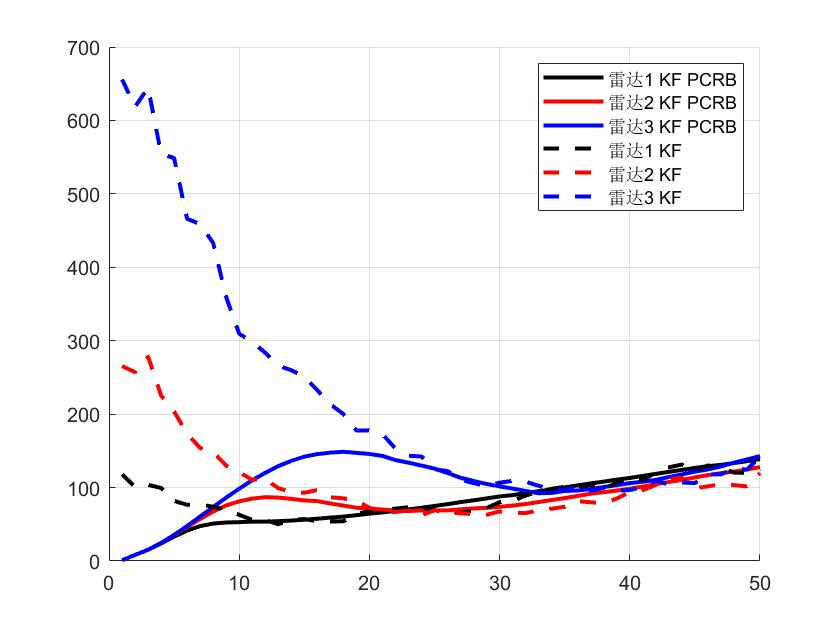
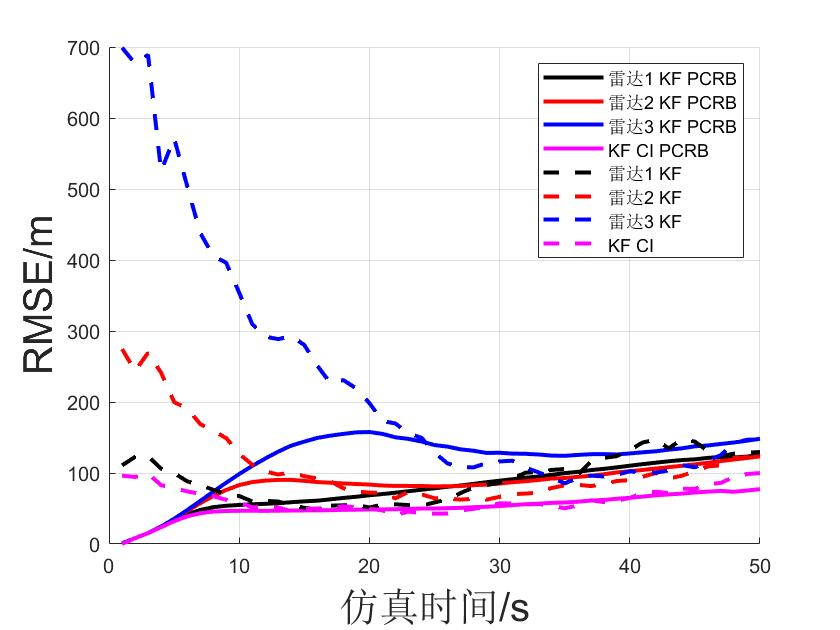
add CI PCRLB

diff --git a/examples/exp7.m b/examples/exp7.m
@@ -6,23 +6,59 @@ storageName2 = strcat('exp6','.mat');
 load(['C:\Users\nick\Documents\GitHub\Radar-Data-Processing-With-Applications-Component-Library\examples\data\exp6\',storageName2]);
 
 H = [1 0 0 0; 0 0 1 0];
+F = [1 T 0 0
+    0  1 0 0
+    0 0 1 T
+    0 0 0 1];
+J = zeros(4,4,k);
+Jz = zeros(4,4,k);
+J(:,:,1) = eye(4);
 
 PCRB1 = posteriorCramerRaoLowerBound(k,Q,T,Rpol1,H,Zcart1_1,origin1,"KF");
 PCRB2 = posteriorCramerRaoLowerBound(k,Q,T,Rpol2,H,Zcart1_2,origin2,"KF");
 PCRB3 = posteriorCramerRaoLowerBound(k,Q,T,Rpol3,H,Zcart1_3,origin3,"KF");
 
+for ni = 2:k
+    A1_1 = [cos(Zpol1_1(1,ni)) -1*Zpol1_1(2,ni)*sin(Zpol1_1(1,ni));...
+        sin(Zpol1_1(1,ni)) Zpol1_1(2,ni)*cos(Zpol1_1(1,ni))];
+    R1_1(:,:,ni) = A1_1*[Rpol1(2,2) 0;0 Rpol1(1,1)]*A1_1';
+    A1_2 = [cos(Zpol1_2(1,ni)) -1*Zpol1_2(2,ni)*sin(Zpol1_2(1,ni));...
+        sin(Zpol1_2(1,ni)) Zpol1_2(2,ni)*cos(Zpol1_2(1,ni))];
+    R1_2(:,:,ni) = A1_2*[Rpol2(2,2) 0;0 Rpol2(1,1)]*A1_2';
+    A1_3 = [cos(Zpol1_3(1,ni)) -1*Zpol1_3(2,ni)*sin(Zpol1_3(1,ni));...
+        sin(Zpol1_3(1,ni)) Zpol1_3(2,ni)*cos(Zpol1_3(1,ni))];
+    R1_3(:,:,ni) = A1_3*[Rpol3(2,2) 0;0 Rpol3(1,1)]*A1_3';
+    Jz(:,:,ni) = H'*inv(R1_1(:,:,ni))*H + H'*inv(R1_2(:,:,ni))*H + H'*inv(R1_2(:,:,ni))*H;
+    J(:,:,ni) = inv(Q + F*inv(J(:,:,ni-1))*F')+Jz(:,:,ni);
+    PCRBci(ni) = (trace(inv(J(:,:,ni)))).^0.5;
+end
+
 PCRB1E = posteriorCramerRaoLowerBound(k,Q,T,Rpol1,Hjcob1,Zcart1_1,origin1,"EKF");
 PCRB2E = posteriorCramerRaoLowerBound(k,Q,T,Rpol2,Hjcob2,Zcart1_2,origin2,"EKF");
 PCRB3E = posteriorCramerRaoLowerBound(k,Q,T,Rpol3,Hjcob3,Zcart1_3,origin3,"EKF");
+
+J = zeros(4,4,k);
+J(:,:,1) = eye(4);
+PCRBciE = zeros(k,1);
+PCRBciE(1,1) = 1;
+
+for ni = 2:k
+    J(:,:,ni) = inv(Q + F*inv(J(:,:,ni-1))*F')+Hjcob1(:,:,ni)'*inv(Rpol1)*Hjcob1(:,:,ni)+Hjcob2(:,:,ni)'*inv(Rpol2)*Hjcob2(:,:,ni)+Hjcob3(:,:,ni)'*inv(Rpol3)*Hjcob3(:,:,ni);
+    PCRBciE(ni) = (trace(inv(J(:,:,ni)))).^0.5;
+end
 
 hold on;
 plot(PCRB1(:,1),'k','LineWidth',2,'DisplayName','雷达1 KF PCRB');
 plot(PCRB2(:,1),'r','LineWidth',2,'DisplayName','雷达2 KF PCRB');
 plot(PCRB3(:,1),'b','LineWidth',2,'DisplayName','雷达3 KF PCRB');
+plot(PCRBci,'m','LineWidth',2,'DisplayName','KF CI PCRB');
 plot(Xhat1_1_monte(1,:),'k--','LineWidth',2,'DisplayName','雷达1 KF');
 plot(Xhat1_2_monte(1,:),'r--','LineWidth',2,'DisplayName','雷达2 KF');
 plot(Xhat1_3_monte(1,:),'b--','LineWidth',2,'DisplayName','雷达3 KF');
+plot(Xhat1_ci_monte(1,:),'m--','LineWidth',2,'DisplayName','KF CI');
 grid on;
+xlabel('仿真时间/s','FontSize',20); 
+ylabel('RMSE/m','FontSize',20);
 legend();
 
 figure();
@@ -30,8 +66,12 @@ hold on;
 plot(PCRB1E(:,1),'k','LineWidth',2,'DisplayName','雷达1 EKF PCRB');
 plot(PCRB2E(:,1),'r','LineWidth',2,'DisplayName','雷达2 EKF PCRB');
 plot(PCRB3E(:,1),'b','LineWidth',2,'DisplayName','雷达3 EKF PCRB');
+plot(PCRBciE,'m','LineWidth',2,'DisplayName','KF CI PCRB');
 plot(Xhat1_1E_monte(1,:),'k--','LineWidth',2,'DisplayName','雷达1 EKF');
 plot(Xhat1_2E_monte(1,:),'r--','LineWidth',2,'DisplayName','雷达2 EKF');
 plot(Xhat1_3E_monte(1,:),'b--','LineWidth',2,'DisplayName','雷达3 EKF');
+plot(Xhat1_ciE_monte(1,:),'m--','LineWidth',2,'DisplayName','KF CI');
 grid on;
+xlabel('仿真时间/s','FontSize',20); 
+ylabel('RMSE/m','FontSize',20);
 legend();
